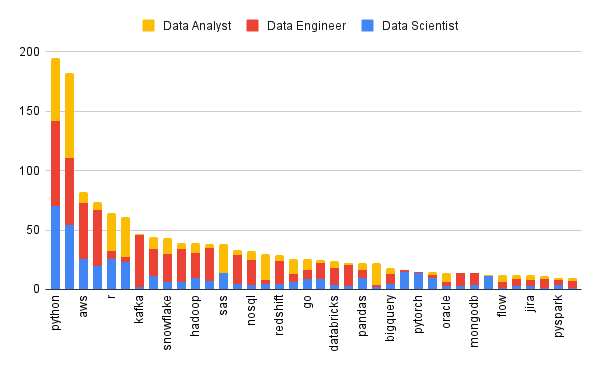
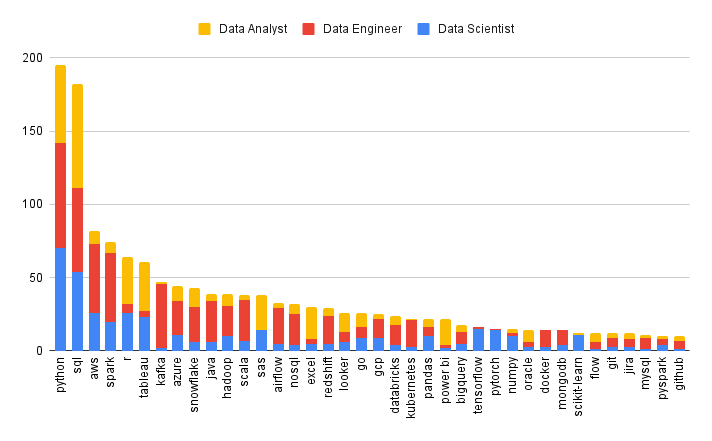
Final touches!

Changed region(s): [[0.03, 0.1186, 0.99, 0.9488], [0.24, 0.0296, 0.78, 0.0889]]

diff --git a/README.md b/README.md
@@ -57,25 +57,85 @@ As a result, we got the following bar graph, where the skills are divided by rol
 
 **3. Most demanded skills:**
 
-[](/project_sql/3_most_demand_skills.sql)
+Using the
+[third query](/project_sql/3_most_demand_skills.sql), we were able to find out which are the most demanded skills among these three roles.
+
+Something to point out is that the Data Scientist role is the one that shares more skills with the other two, so we can say it is in the middle of both positions.
+
+Only the top 15 skills are shown in the graph, and as can be seen, there are just 4 (SQL, Python, and two cloud providers) that are shared by all of the roles.
+
+![The graph bar of the third query](/visualizations/3_query.png "Third query")
 
 **4. Best-paying skills:**
 
-[](/project_sql/4_top_skills_salary.sql)
+We were able to retrieve the most payed skill per role by using [this query](/project_sql/4_top_skills_salary.sql) As it can be see in the next table, there are some specific skills what lead the ranking for each of the roles.
+
+|                    | Data Scientist | Data Analyst | Data Engineer |
+|--------------------|----------------|--------------|---------------|
+**1**	| gdpr |	bitbucket |	mongo
+**2**	| golang |	pyspark |	ggplot2
+**3**	| atlassian |	terraform |	seaborn
+**4**	| opencv |	unify |	ubunty
+**5**	| microstrategy |	couchbase |	rust
 
 **5. Most optimal skills:**
 
+And finally, using all the analysis that we have been making throughout this project, we arrive at the final queries, where we determine what the 15 most optimal skills to learn for each of the roles are, based on the most demanded and best paid.
+
+The following contains the 15 most demanded skills, sorted by average salary, for each of the roles.
+
+| Data Scientist | Data Analyst | Data Engineer |
+|----------------|--------------|---------------|
+| **pytorch**           |	go          |	kafka
+| **tensorflow**        |	azure       |	scala
+| *scikit-learn*    |	aws	        | **spark**
+| aws               |	oracle      |	airflow
+| **spark**         |	looker      |	java
+| *pandas*          |	*python*    |	redshift
+| tableau           |	sap         |	snowflake
+| *python*          |	r           |	hadoop
+| *sql*             |	tableau     |	aws
+| azure             |	sas         |	databricks
+| r                 |	*sql*       |  	*python*
+| *git*             |	**power bi**| 	**gcp**
+| sas               |	powerpoint  |	*sql*
+| *excel*           |	*excel*     |	*git*
+| **power bi**      |	word	    |   azure
+
+As can be seen, there are different types of skills, like programming (Python, SQL, Scala), libraries (Scikit-learn, Pandas), or cloud providers (AWS, Azure, GCP).
+
+I have already use *some of them* and I am planning to deeply learn **some others**.
 
 
-Throughout this project, I enhanced my SQL skills, ranging from basic queries to more advanced techniques such as Common Table Expressions (CTEs). 
+## Key learnings included 🧠
 
-## Key learnings include 🧠
+Between other things, through the development of this awesome project, we were able to learn key components in the day in the life of a data nerd:
 
-Data Extraction: How to extract relevant data from a large dataset using SQL.
-Aggregation: Using SQL functions to compute averages, counts, and other aggregations.
-CTEs: Leveraging Common Table Expressions to simplify complex queries and improve readability.
-Data Visualization: Utilizing tools like Google Sheets to create insightful visualizations from the SQL query results.
+**Data Storage and Extraction**: How to create and manage a database and extract relevant data from it using SQL.
+
+**Aggregation**: Using SQL functions to compute averages, counts, and other aggregations.
+
+**CTEs**: Leveraging Common Table Expressions to simplify complex queries and improve readability and performance.
+
+**Data Visualization and Storytelling**: Utilizing tools like Google Sheets to create insightful visualizations from the SQL query results. Using those visuals along with other components (like tables) to start with a generic topic and finish with some really valuable insights.
 
 ## Conclusions 🏆
 
-This project provided valuable insights into the data job market. By analyzing salary data and skill demands, we identified the most lucrative and in-demand skills for data professionals. The findings can guide individuals in their career development and skill acquisition strategies. Additionally, the project served as a practical application of SQL, reinforcing both basic and advanced querying techniques.
+First and foremost, I would like to share my gratitude with the course creators [Luke Barousse](https://www.linkedin.com/in/luke-b/) and [Kelly Adams](https://www.linkedin.com/in/kellyjianadams/), for their awesome work and all the dedication. Thanks a lot, guys! 💪🏽
+
+Then, unifying the most optimal skills to learn with my personal likes and the current position of my career, I have decided on my roadmap of knowledge for the short-term.
+
+As for now, I am about to finish this wonderful **SQL** project and I am currently enrolled in a 90-day **Python** bootcamp, in order to keep growing my programming skills.
+
+In my current position as a Technical Support Representative for **Google Cloud Platform**, I am learning firsthand a wide range of topics related to **cloud computing**.
+
+As my first step in the data world was **PowerBI** and because it is a tool that I love, my next objective is to deeply learn this wonderful tool, by combining the theoretical aspects of some courses with some personal projects that I have with a very good friend.
+
+After that, and because of its importance in the world of data, I will be focusing on **Spark**, **PyTorch**, **TensorFlow** and finally, though it does not appear on the list, **MongoDB** as a non-relational database.
+
+I have already been in contact with these tools, but I really want to learn them and try to master them as much as I can.
+
+It will be a lovely path that I will be more than pleased to cover.
+
+Rest at the end, not in the middle ⚫🐍
+
